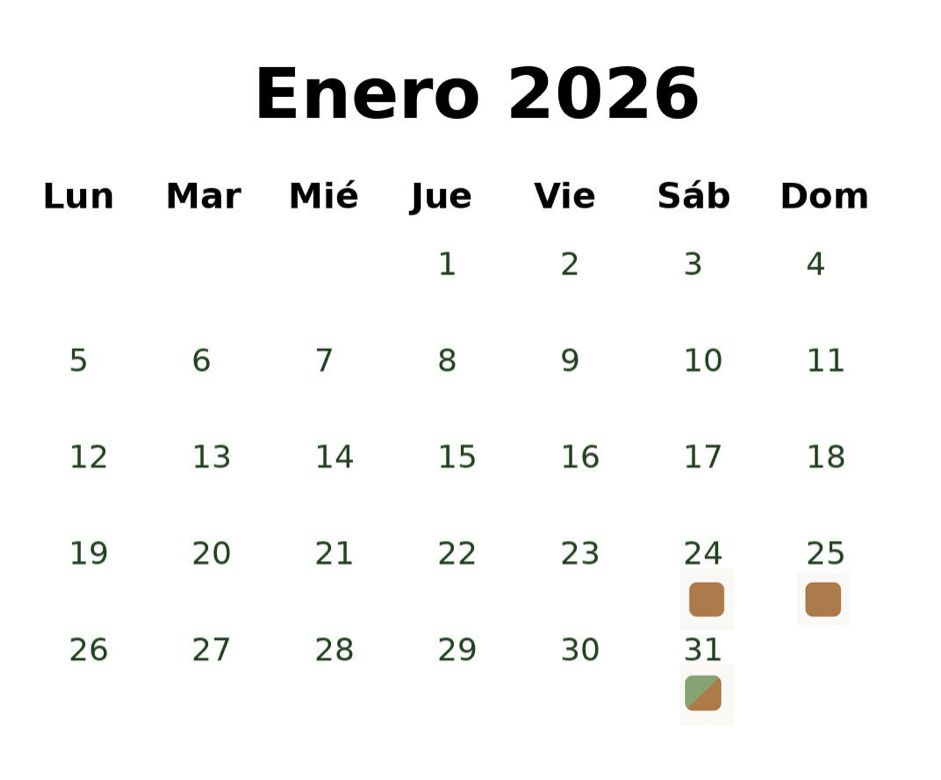
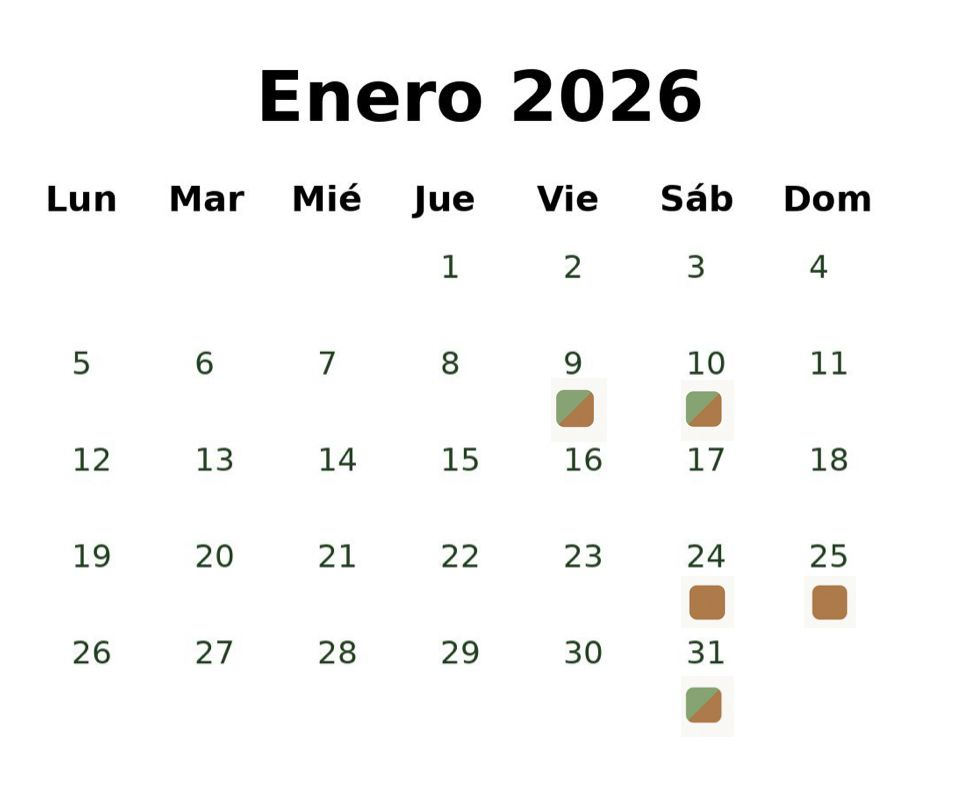
mes de marzo introducido

diff --git a/Pagina web/index.html b/Pagina web/index.html
@@ -265,13 +265,13 @@
     <h2>Calendario de Reservas</h2>
     <div class="calendar-carousel">
   <div class="calendar-slide active">
-    <img src="img/calendario/diciembre.png" alt="Diciembre 2025">
+    <img src="img/calendario/enero.png" alt="Diciembre 2025">
   </div>
   <div class="calendar-slide">
-    <img src="img/calendario/enero.png" alt="Enero 2026">
+    <img src="img/calendario/febrero.png" alt="Enero 2026">
   </div>
   <div class="calendar-slide">
-    <img src="img/calendario/febrero.png" alt="Febrero 2026">
+    <img src="img/calendario/marzo.png" alt="Febrero 2026">
   </div>
 
   <!-- Flechas -->
